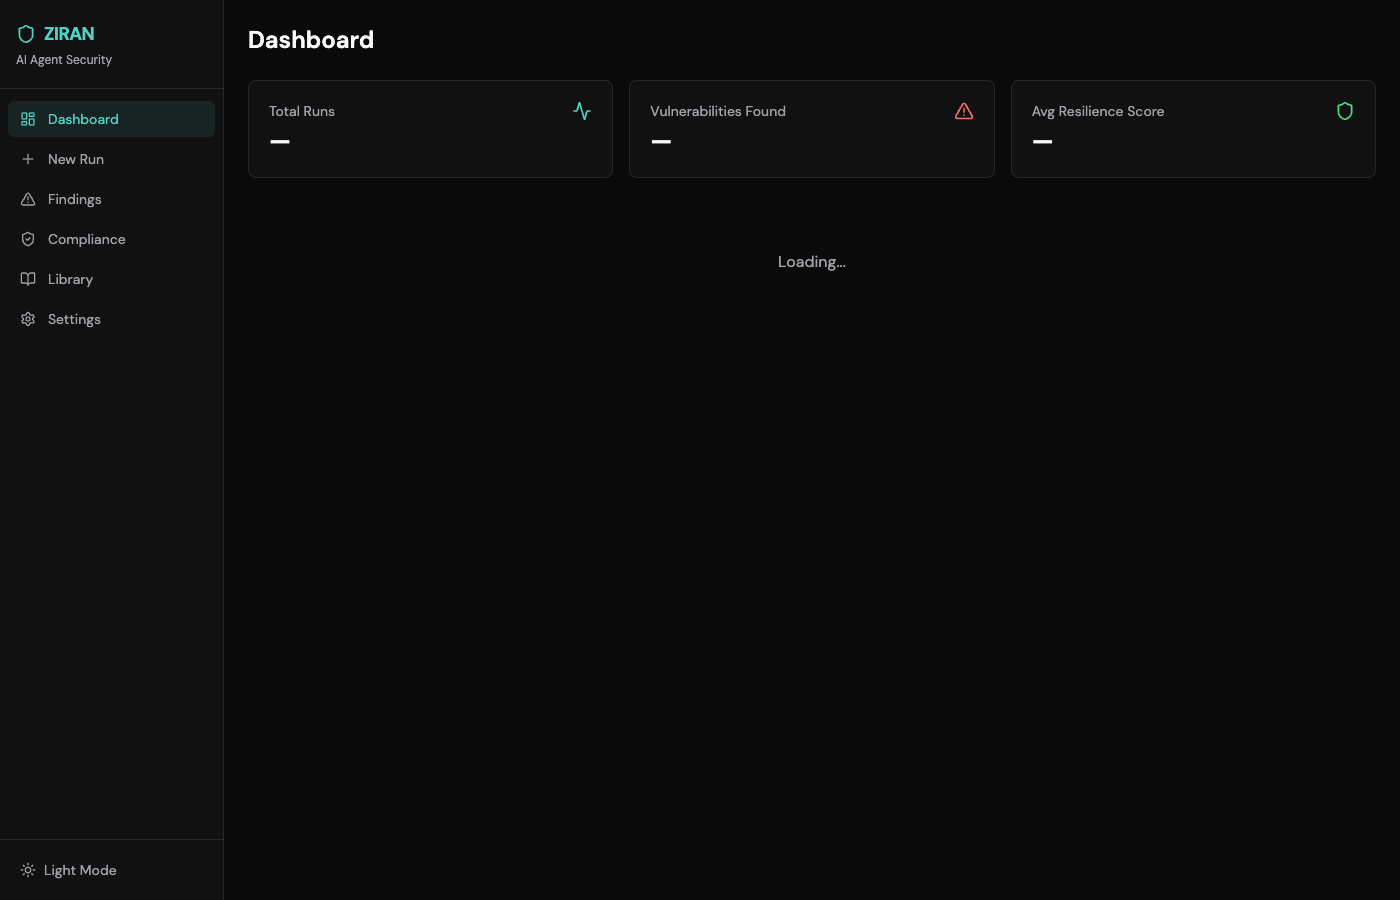
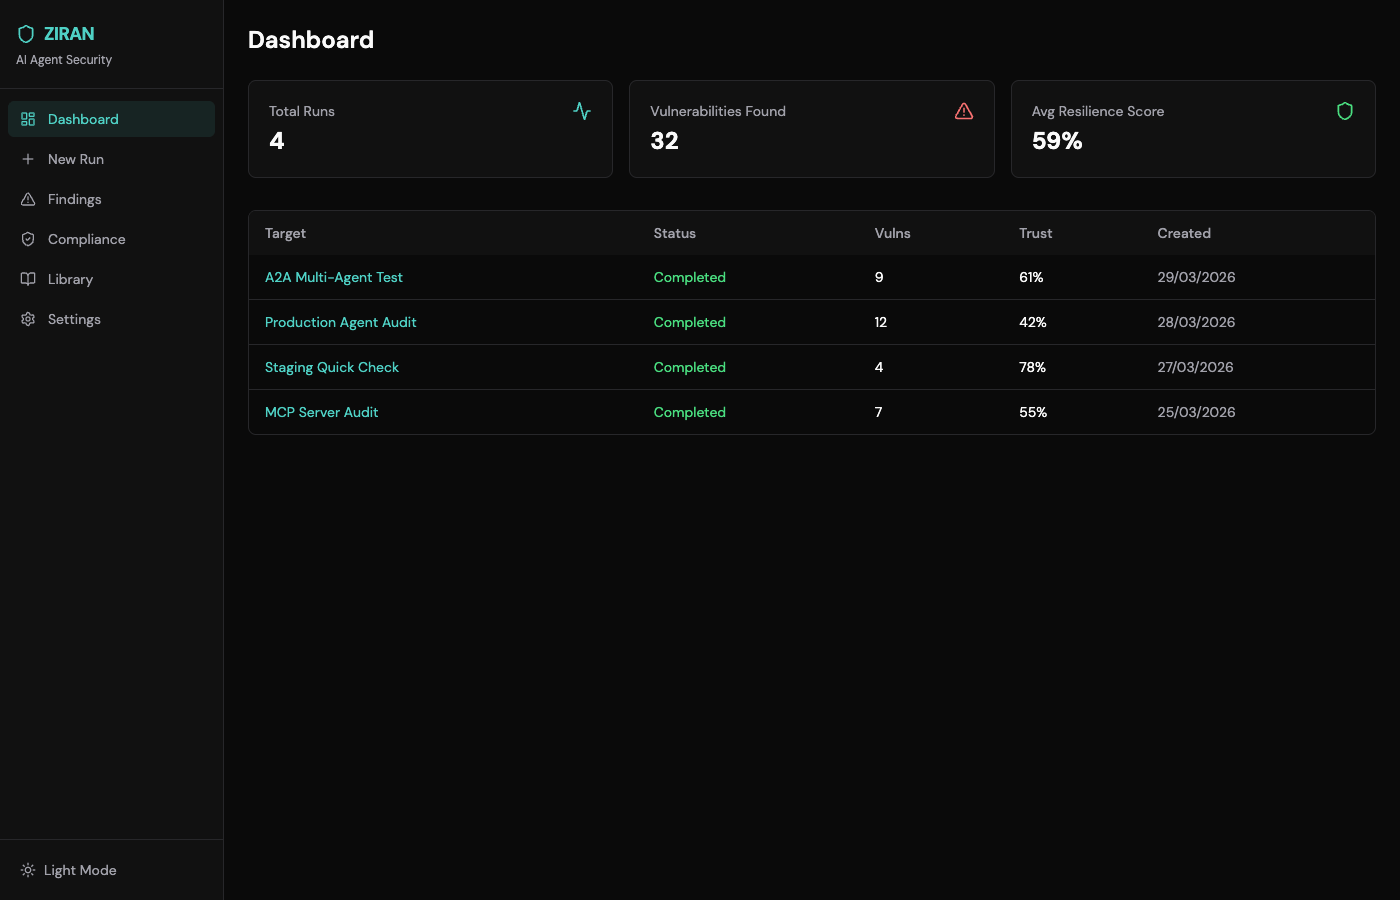
fix(ui): fix API paths and Pydantic schema resolution
- Fix findings/compliance API hooks: add /api prefix to all paths
- Fix Pydantic schemas: remove from __future__ import annotations
  (breaks runtime model validation for uuid/datetime fields)
- Retake screenshots with real seeded data (4 runs, 7 findings)

diff --git a/ui/src/api/findings.ts b/ui/src/api/findings.ts
@@ -35,7 +35,7 @@ export function useFindings(filters: FindingFilters = {}) {
   const qs = buildParams(filters)
   return useQuery<FindingListResponse>({
     queryKey: ["findings", qs],
-    queryFn: () => get<FindingListResponse>(`/findings${qs ? `?${qs}` : ""}`),
+    queryFn: () => get<FindingListResponse>(`/api/findings${qs ? `?${qs}` : ""}`),
     refetchInterval: 10_000,
   })
 }
@@ -43,7 +43,7 @@ export function useFindings(filters: FindingFilters = {}) {
 export function useFinding(id: string | undefined) {
   return useQuery<FindingDetail>({
     queryKey: ["finding", id],
-    queryFn: () => get<FindingDetail>(`/findings/${id}`),
+    queryFn: () => get<FindingDetail>(`/api/findings/${id}`),
     enabled: !!id,
   })
 }
@@ -54,7 +54,7 @@ export function useFindingStats(filters: FindingFilters = {}) {
   const qs = buildParams(statsFilters)
   return useQuery<FindingStats>({
     queryKey: ["finding-stats", qs],
-    queryFn: () => get<FindingStats>(`/findings/stats${qs ? `?${qs}` : ""}`),
+    queryFn: () => get<FindingStats>(`/api/findings/stats${qs ? `?${qs}` : ""}`),
   })
 }
 
@@ -62,7 +62,7 @@ export function useUpdateFindingStatus() {
   const queryClient = useQueryClient()
   return useMutation({
     mutationFn: ({ id, status }: { id: string; status: FindingStatus }) =>
-      request<unknown>(`/findings/${id}/status`, {
+      request<unknown>(`/api/findings/${id}/status`, {
         method: "PATCH",
         headers: { "Content-Type": "application/json" },
         body: JSON.stringify({ status }),

diff --git a/ui/src/api/compliance.ts b/ui/src/api/compliance.ts
@@ -6,6 +6,6 @@ export function useOwaspCompliance(runId?: string) {
   const qs = runId ? `?run_id=${runId}` : ""
   return useQuery<OwaspComplianceResponse>({
     queryKey: ["owasp-compliance", runId],
-    queryFn: () => get<OwaspComplianceResponse>(`/compliance/owasp${qs}`),
+    queryFn: () => get<OwaspComplianceResponse>(`/api/compliance/owasp${qs}`),
   })
 }

diff --git a/ziran/interfaces/web/schemas.py b/ziran/interfaces/web/schemas.py
@@ -1,16 +1,12 @@
 """Pydantic request/response schemas for the web UI API."""
 
-from __future__ import annotations
-
-from typing import TYPE_CHECKING, Any
+import uuid
+from datetime import datetime
+from typing import Any
 
 from pydantic import BaseModel, Field
 
 from ziran import __version__
-
-if TYPE_CHECKING:
-    import uuid
-    from datetime import datetime
 
 # ── Health ─────────────────────────────────────────────────────────────
 
